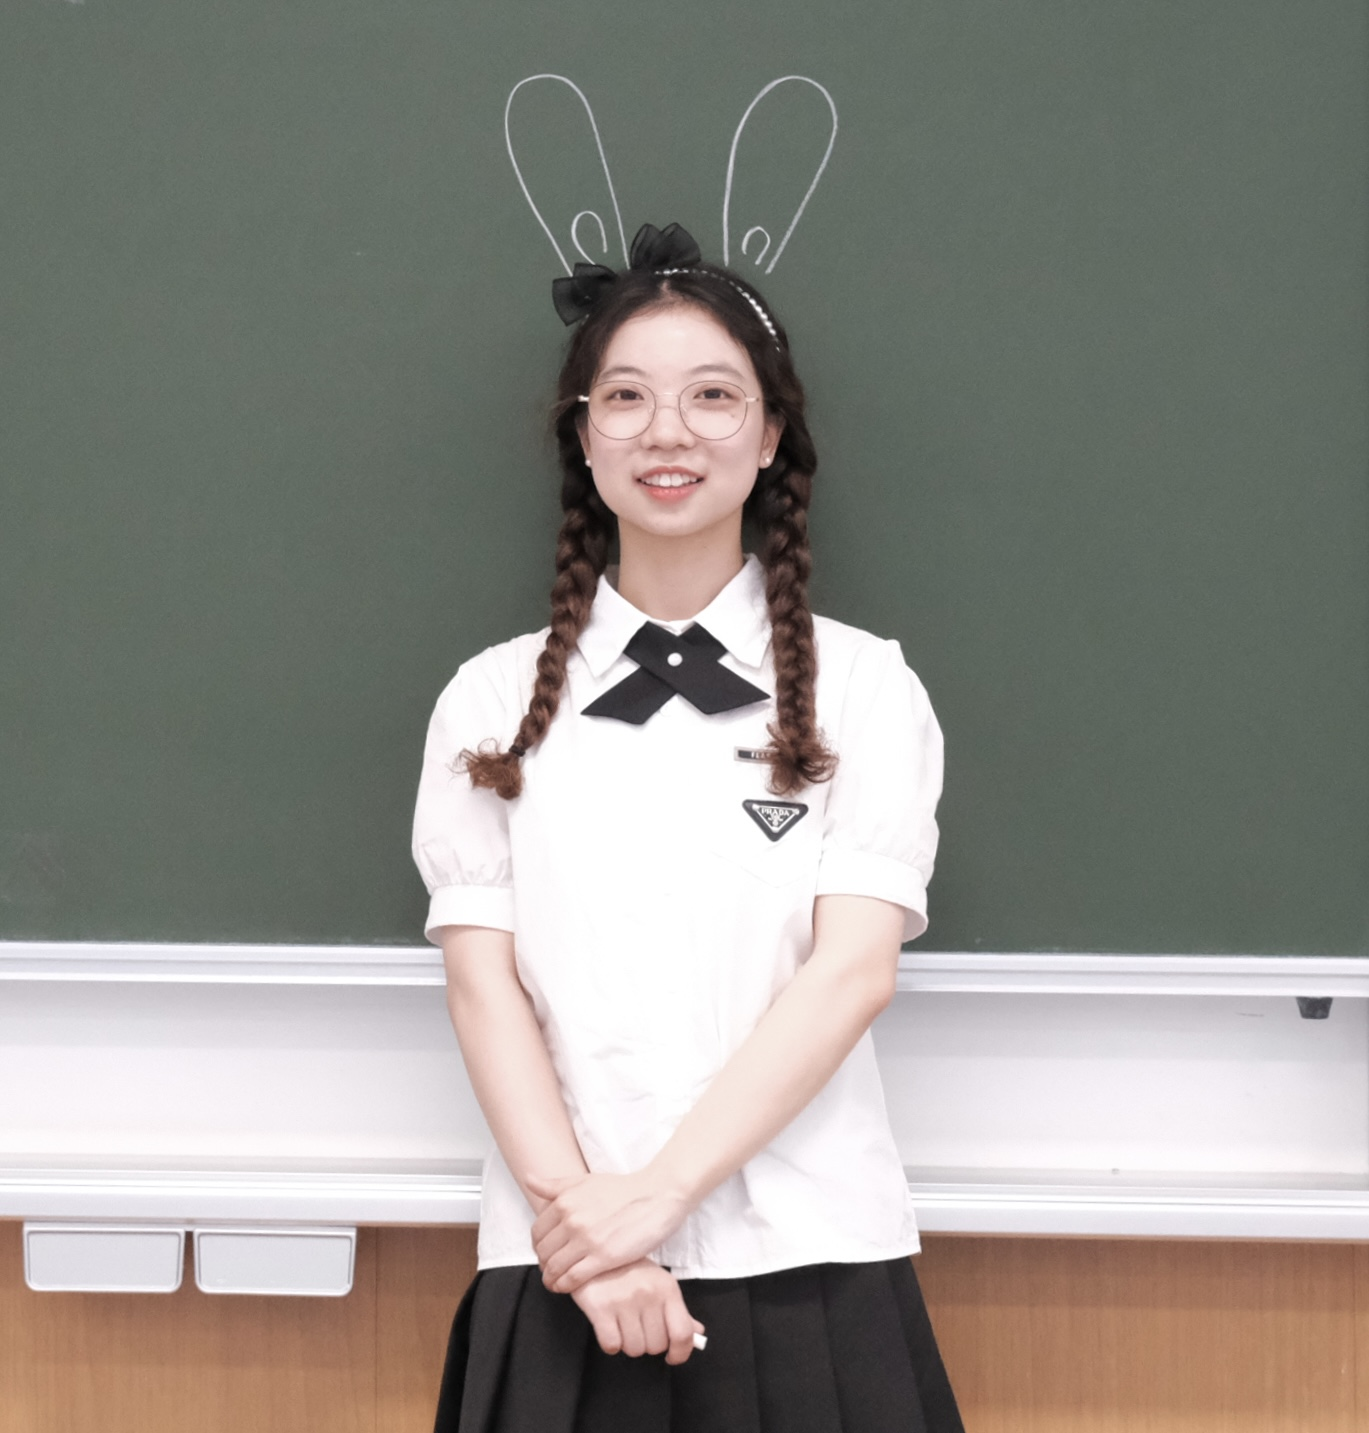
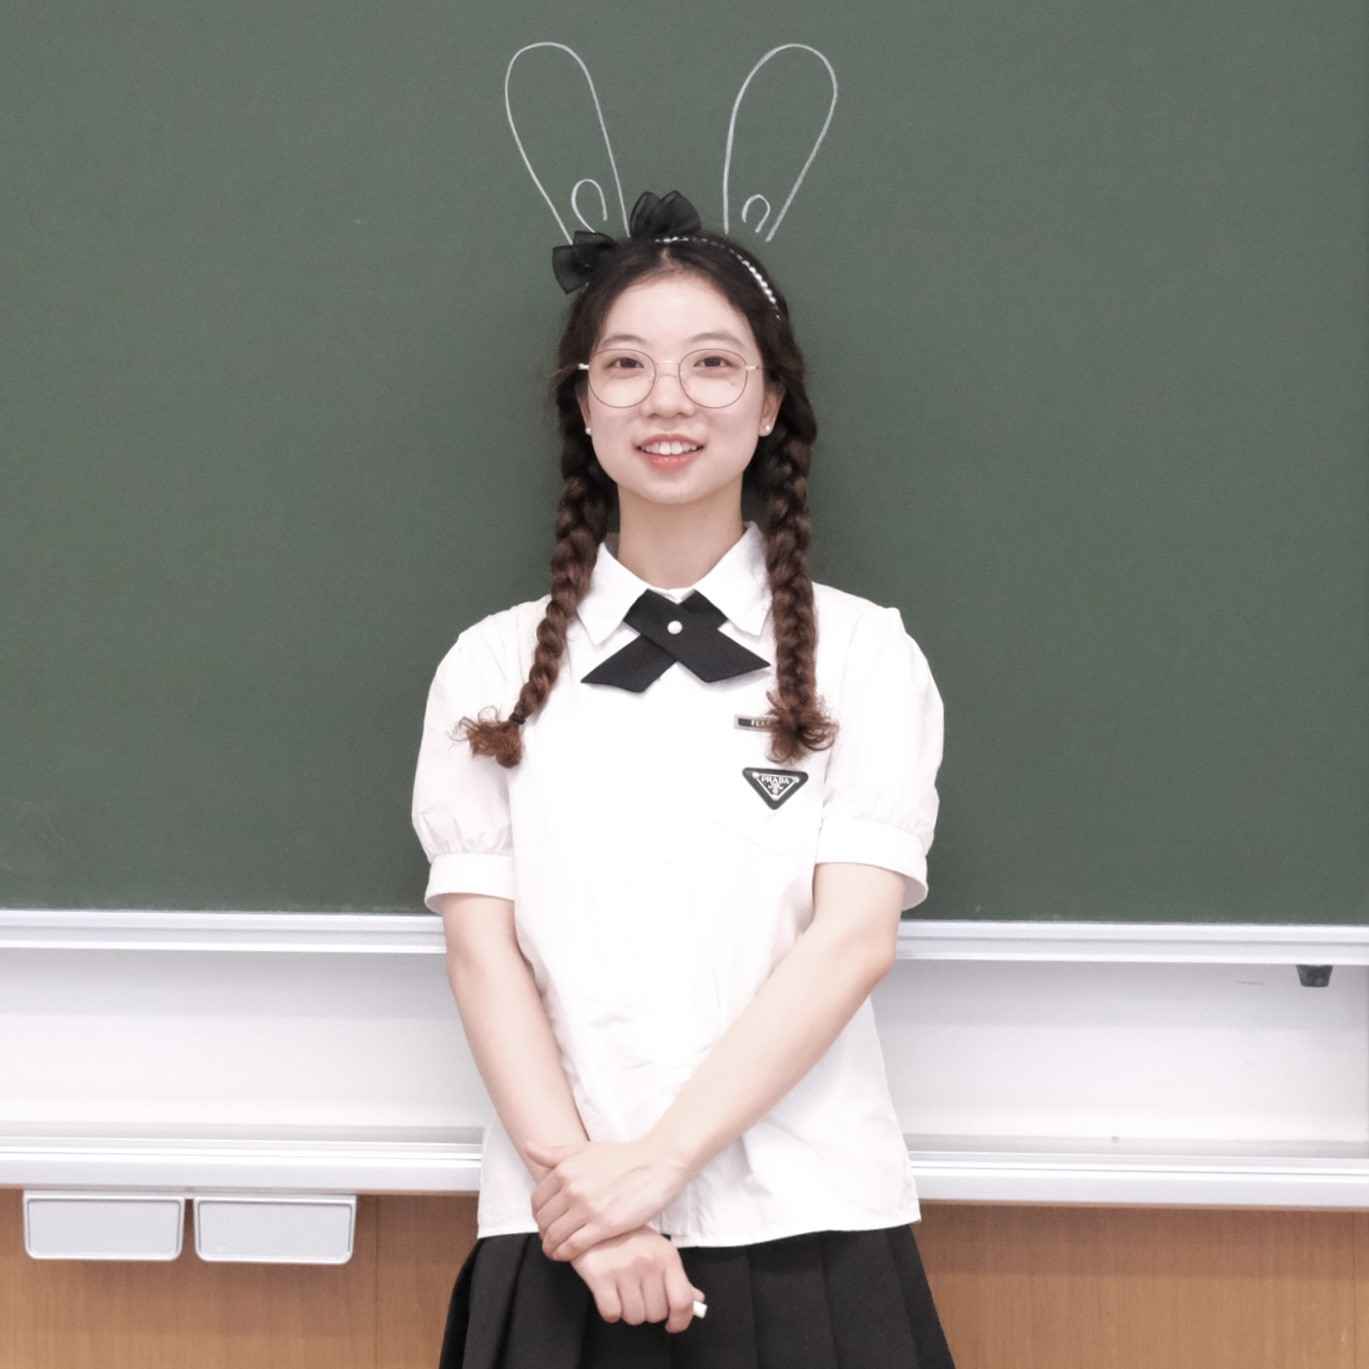
update

diff --git a/index.html b/index.html
@@ -45,7 +45,7 @@
                     <a target="_blank" href="mailto:kakiliu2000@gmail.com">  kakiliu2000@gmail.com</a>
                   </p>
                   <p>
-                    Hi, I am Jiaqi Liu, a second-year PhD student at <a href="https://www.zju.edu.cn/english/">Zhejiang University</a>, under the supervision of <a href="https://sites.google.com/view/jianlou">Prof. Jian Lou</a>, <a href="https://scholar.google.com/citations?user=5fa4lOQAAAAJ&hl=en">Prof. Zhan Qin</a>, and <a href="https://scholar.google.com/citations?hl=zh-CN&user=uuQA_rcAAAAJ&view_op=list_works&sortby=pubdate">Prof. Kui Ren</a>. I received my Bachelor's degree from the College of Computer Science and Technology at Zhejiang University in 2022. 
+                    Hi, I am Jiaqi Liu, a third-year PhD student at <a href="https://www.zju.edu.cn/english/">Zhejiang University</a>, under the supervision of <a href="https://scholar.google.com/citations?user=5fa4lOQAAAAJ&hl=en">Prof. Zhan Qin</a>, and <a href="https://scholar.google.com/citations?hl=zh-CN&user=uuQA_rcAAAAJ&view_op=list_works&sortby=pubdate">Prof. Kui Ren</a>. I am also fortunate to be advised by <a href="https://sites.google.com/view/jianlou">Prof. Jian Lou</a>. I received my Bachelor's degree from the College of Computer Science and Technology at Zhejiang University in 2022.
                   </p>
                   <p>
                       My research focuses on privacy-preserving data analytics and I currently work on machine unlearning.
@@ -56,10 +56,197 @@
                   <!-- <p style="text-align:center">&nbsp; Email: kakiliu2000 [at] gmail.com</p> -->
                   
 
-                <td style="padding:2.5%;width:40%;max-width:40%">
+                <td style="padding:3.5%;width:40%;max-width:40%">
 
-                  <img id="addLineImg" img style="width:83%;max-width:100%;border-radius:1=0%" alt="profile photo"
-                    src="images/kaki.jpg" />
+                  <!-- <img id="addLineImg" img style="width:83%;max-width:100%;border-radius:1=0%" alt="profile photo"
+                    src="images/kaki.jpg" /> -->
+                    <head>
+                      <title>轮播图</title>
+                      <meta charset="utf-8">
+                      <meta name="referrer" content="no-referrer">
+                  </head>
+                  <link rel="stylesheet" type="text/css" href="https://at.alicdn.com/t/font_1582902_u0zm91pv15i.css">
+                  <style type="text/css">
+                      body{
+                          margin: 0;
+                          padding: 0px;
+                      }
+                      #carousel{
+                          margin: auto; /* 居中 */
+                          width: 245px; /* 设置宽度 */
+                          position: relative; /* 相对定位 */
+                          overflow: hidden; /* 超出隐藏 */
+                      }
+                      #carousel img{
+                          width: 245px; /* 设定大小 按比例缩放 */
+                      }
+                      #carousel > ul {
+                          display: flex; /* 图片处理为一行 */
+                          position: absolute; /* 设置绝对定位，实现相对于#carousel的绝对定位 */
+                      }
+                      #carousel > ul,
+                      #carousel > ul > li{
+                          padding: 0;
+                          margin: 50;
+                          list-style:none; 
+                      }
+                  
+                      /* 控制按钮的样式 */
+                      
+                      #sliderBtn{
+                          position: absolute;
+                          width: 100%;
+                          bottom: 0;
+                          display: flex;
+                          justify-content: flex-end;
+                      }
+                      .unitBtn{
+                          width: 10px;
+                          height: 10px;
+                          background-color: #eee;
+                          border-radius: 10px;
+                          margin: 5px;
+                          cursor: pointer;
+                      }
+                      .active{
+                          background-color: #4C98F7;
+                      }
+                  </style>
+                  <body>
+                      <!-- 轮播图容器 -->
+                      <div id="carousel">
+                          <ul> <!-- 图片容器 -->
+                              <li>
+                                  <img src="images/kaki.jpg">
+                              </li>
+                              <li>
+                                  <img src="images/kaki11.jpg">
+                              </li>
+                              <li>
+                                  <img src="images/kaki2.jpg">
+                              </li>
+                              
+                              <!-- <li>
+                                  <img src="http://www.sdust.edu.cn/__local/1/95/CB/EDC1450B8FD1B8A25FAAC726AA4_A36D4253_16C91.jpg">
+                              </li> -->
+                          </ul>
+                          <!-- 按钮组 -->
+                         
+                          <div id="sliderBtn"></div> <!-- 切换按钮组 -->
+                      </div>
+                  </body>
+                      <script type="text/javascript">
+                          var imgArr = []; // 图片数组
+                          var curIndex = 0; // 当前显示图片
+                          var timer = null; // 定时器
+                          var clickAllow = true; // 锁，是否允许用户点击
+                          var btnList = []; // 右下角切换按钮组
+                          
+                          function slide(slideContainer , targetIndex = curIndex + 1){
+                              var width = 0; // 计算切换图片要滑动的距离
+                              if(targetIndex > curIndex){
+                                  for(let i=curIndex;i<targetIndex;++i) width+=imgArr[i].width; // 正向切换则计算本图片到后续图片宽度
+                              }else{
+                                  if(targetIndex === -1) width = imgArr[imgArr.length-1].width; // 特殊处理第一张图片
+                                  else for(let i=targetIndex;i<curIndex;++i) width+=imgArr[i].width; // 逆向切换处理宽度
+                              }
+                              clickAllow = false; // 不允许用户点击
+                              var step = width/60; // 动态设置步长
+                              step = targetIndex > curIndex ? step : -step; // 正向逆向切换 
+                              var curConLeft = slideContainer.offsetLeft; // 获取ul的left
+                              var distanceMoved = 0; // 已经移动的距离
+                              var slideInterval = setInterval(function (){ // 此定时器是为了实现切换动画
+                                  if(Math.abs(width - distanceMoved) > Math.abs(step)){ // 边界判定，判断已移动距离以及应移动距离的差与步长关系
+                                       curConLeft -= step; // 大于步长则不断移动
+                                      slideContainer.style.left = `${curConLeft - step}px`; // 移动
+                                      distanceMoved += Math.abs(step); // 已移动距离加步长
+                                  }else{ 
+                                      clearInterval(slideInterval); // 若最后移动距离不足步长，则清除动画定时器
+                                      var directMove = step > 0 ? (curConLeft - width + distanceMoved) : (curConLeft + width - distanceMoved); // 正向移动与逆向移动的计算方式不同
+                                      slideContainer.style.left = `${directMove}px`; // 直接完成此次动画
+                                      distanceMoved = 0; // 重设移动距离为0
+                                      curIndex = targetIndex; // 设置当前index
+                                      if(curIndex === imgArr.length){ // index加1，判断是否为最后一张来作边缘处理
+                                          curIndex = 0; // 最后一张则重置index
+                                          slideContainer.style.left = `-${imgArr[0].width}px`;  // 重置ul
+                                      }else if (curIndex === -1) {
+                                          curIndex = imgArr.length-1; // 第一张重置index
+                                          slideContainer.style.left = `-${slideContainer.offsetWidth - imgArr[imgArr.length-1].width - imgArr[0].width}px`;  // 重置ul
+                                      }
+                                      switchBtnActive(); // 右下角按钮的切换
+                                      clickAllow = true; // 允许点击
+                                  }
+                              }, 10);
+                          }
+                  
+                          function switchBtnActive(){ 
+                              btnList.forEach((v) => {
+                                  v.className = "unitBtn"; // 设置其他按钮为灰色
+                              })
+                              btnList[curIndex] .className = "unitBtn active"; // 设置当前按钮为蓝色
+                          }
+                  
+                          function createBtnGroup(carousel,slideContainer,config){
+                              
+                              var sliderBtn = document.getElementById("sliderBtn"); // 获取按钮容器的引用
+                              imgArr.forEach((v,i) => {
+                                  let btn = document.createElement("div"); // 制作按钮
+                                  btn.className = i === 0 ?  "unitBtn active" : "unitBtn"; // 初设蓝色与灰色按钮样式
+                                  btn.addEventListener('click',(e) => {
+                                      clearInterval(timer); // 清除定时器，避免手动切换时干扰
+                                      if(clickAllow) slide(slideContainer,i); // // 允许点击则切换
+                                      timer = setInterval(() => {slide(slideContainer)},config.interval); // 重设定时器
+                                  }) 
+                                  btnList.push(btn); // 添加按钮到按钮组
+                                  sliderBtn.appendChild(btn); // 追加按钮到按钮容器
+                              })
+                          }
+                  
+                  
+                          function edgeDispose(slideContainer){
+                              var li = document.createElement("li"); // 创建<li>
+                              var img = document.createElement("img"); // 创建新的<img>
+                              img.src = imgArr[0].src; // 设置图片src
+                              li.appendChild(img); // 追加<img>到<li>
+                              slideContainer.appendChild(li); // 将第一张图片追加到轮播图的最后，作边缘处理
+                              var li2 = document.createElement("li"); // 创建<li>
+                              var img2 = document.createElement("img"); // 创建新的<img>
+                              img2.src = imgArr[imgArr.length-1].src; // 设置图片src
+                              li2.appendChild(img2); // 追加<img>到<li>
+                              slideContainer.insertBefore(li2,slideContainer.firstChild); // 将最后一张图片追加到轮播图的最前，作边缘处理
+                              slideContainer.style.left = `-${imgArr[0].width}px`; // 重设ul位置
+                          }
+                  
+                          function eventDispose(carousel,slideContainer,config){
+                              document.addEventListener('visibilitychange',function(){ // 浏览器切换页面会导致动画出现问题，监听页面切换
+                                  if(document.visibilityState=='hidden') clearInterval(timer); // 页面隐藏清除定时器
+                                  else timer = setInterval(() => {slide(slideContainer)},config.interval); // 重设定时器
+                              });
+                              carousel.addEventListener('mouseover',function(){ // 鼠标移动到容器则不切换动画，停止计时器
+                                  clearInterval(timer); // 页面隐藏清除定时器
+                              });
+                              carousel.addEventListener('mouseleave',function(){ // 鼠标移出容器则开始动画
+                                  timer = setInterval(() => {slide(slideContainer)},config.interval); // 重设定时器
+                              });
+                          }
+                  
+                  
+                          (function start() {
+                              var config = {
+                                  height: "255px", // 配置高度
+                                  interval: 5000 // 配置轮播时间间隔
+                              }
+                              var carousel = document.getElementById("carousel"); //获取容器对象的引用
+                              carousel.style.height = config.height; // 将轮播容器高度设定
+                              document.querySelectorAll("#carousel img").forEach(v => imgArr.push(v)); // 获取所有图片组成数组
+                              var slideContainer = document.querySelector("#carousel > ul"); // 获取ul也就是一行图片的容器
+                              edgeDispose(slideContainer); // 对边缘处理
+                              eventDispose(carousel,slideContainer,config); // 对一些浏览器事件处理
+                              createBtnGroup(carousel,slideContainer,config); // 按钮组的处理
+                              timer = setInterval(() => {slide(slideContainer)},config.interval); // 设置定时器定时切换
+                          })();
+                      </script>
+
 
                 </td>
               </tr>
